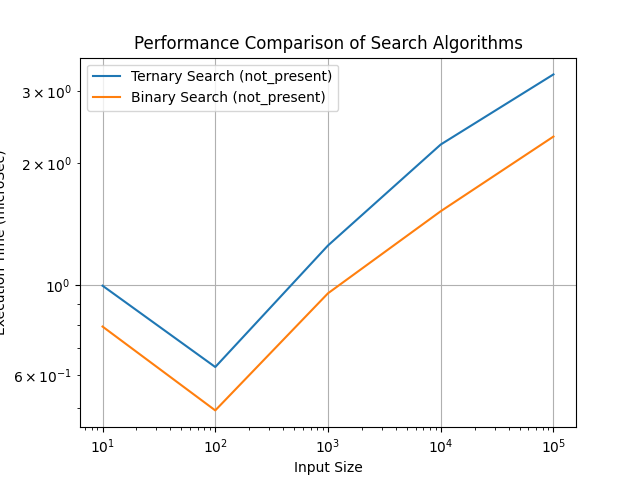
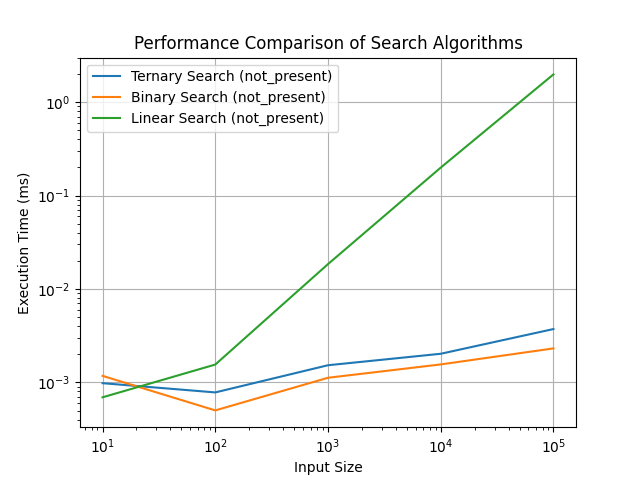
added comments / documentation in the code

diff --git a/unimodalTest.py b/unimodalTest.py
@@ -1,70 +1,83 @@
-import matplotlib.pyplot as plt
-import time
-import numpy as np
 import math
-import random
+import time
 
-# Define the unimodal function (a simple parabola)
 def unimodal_function(x):
-    """A complex unimodal function with noise to test the algorithms."""
-    # Function: sin(x) + (x-5000)^2 / 10000
-    # This creates a curve with a global minimum around x = 5000, with a lot of fluctuations
-    noise = random.uniform(-0.01, 0.01)  # Adding small random noise
-    return math.sin(x) + ((x - 5000)**2) / 10000 + noise
+    return -1 * (x - 3)**2 + 7  # Maximum at x = 3
 
-# Ternary Search to find the minimum of a unimodal function
-def ternary_search_minimize(f, left, right, epsilon=1e-5):
-    while right - left > epsilon:
+# Ternary Search implementation using the unimodal_function()
+def ternary_search(func, left, right, absolute_precision=1e-7):
+    while right - left > absolute_precision:
         mid1 = left + (right - left) / 3
         mid2 = right - (right - left) / 3
-        if f(mid1) < f(mid2):
-            right = mid2
-        else:
+
+        # Compare function values at mid1 and mid2
+        if func(mid1) < func(mid2):
             left = mid1
-    return (left + right) / 2
-
-# Binary Search to find the minimum of a unimodal function
-def binary_search_minimize(f, left, right, epsilon=1e-5):
-    while right - left > epsilon:
-        mid = (left + right) / 2
-        if f(mid - epsilon) < f(mid + epsilon):
-            right = mid
         else:
-            left = mid
+            right = mid2
+
     return (left + right) / 2
 
-# Compare performance for a range of sizes
-def compare_search_algorithms():
-    epsilon = 1e-7  # Precision level
-    sizes = np.arange(10, 10000000, 10)  # Search ranges from 10 to 1000
-    ternary_times = []
-    binary_times = []
+# Binary search implementation using unimodal_function()
+def binary_search_unimodal(func, left, right, absolute_precision=1e-7):
+    while right - left > absolute_precision:
+        mid = (left + right) / 2
 
-    for size in sizes:
-        left, right = 0, size  # Define the search range
+        # Compare function values at mid and mid + small step
+        if func(mid) < func(mid + absolute_precision):
+            left = mid 
+        else:
+            right = mid  
 
-        # Measure ternary search time
-        start_time = time.time()
-        ternary_search_minimize(unimodal_function, left, right, epsilon)
-        ternary_times.append((time.time() - start_time) * 1_000_000)  # Convert to microseconds
+    return (left + right) / 2
 
-        # Measure binary search time
-        start_time = time.time()
-        binary_search_minimize(unimodal_function, left, right, epsilon)
-        binary_times.append((time.time() - start_time) * 1_000_000)  # Convert to microseconds
+# Brute Force
+def brute_force_search(func, left, right, precision=1e-7):
+    step = precision
+    max_value = -math.inf
+    max_point = None
 
-    return sizes, ternary_times, binary_times
+    x = left
+    while x <= right:
+        f_value = func(x)
+        if f_value > max_value:
+            max_value = f_value
+            max_point = x
+        x += step
 
-# Run the comparison and generate a graph
-sizes, ternary_times, binary_times = compare_search_algorithms()
+    return max_point
 
-# Plot the results
-plt.figure(figsize=(10, 6))
-plt.plot(sizes, ternary_times, label='Ternary Search', color='b', marker='o')
-plt.plot(sizes, binary_times, label='Binary Search', color='r', marker='x')
-plt.xlabel('Search Range Size', fontsize=14)
-plt.ylabel('Time (Microseconds)', fontsize=14)
-plt.title('Comparison of Ternary Search and Binary Search for Function Minimization', fontsize=16)
-plt.legend()
-plt.grid(True)
-plt.savefig('./unimodal')
+# Comparison
+def compare_methods():
+    # range for search to be conducted
+    left, right = 0, 6
+
+    # Ternary Search
+    start_time = time.time()
+    ternary_result = ternary_search(unimodal_function, left, right)
+    ternary_time = time.time() - start_time
+
+    # Binary Search
+    start_time = time.time()
+    binary_result = binary_search_unimodal(unimodal_function, left, right)
+    binary_time = time.time() - start_time
+
+    # Brute Force
+    start_time = time.time()
+    brute_result = brute_force_search(unimodal_function, left, right)
+    brute_time = time.time() - start_time
+
+
+    print("Ternary Search:")
+    print(f"Maximum at x ≈ {ternary_result:.7f}, f(x) ≈ {unimodal_function(ternary_result):.7f}")
+    print(f"Execution Time: {ternary_time:.7e} seconds\n")
+
+    print("Binary Search:")
+    print(f"Maximum at x ≈ {binary_result:.7f}, f(x) ≈ {unimodal_function(binary_result):.7f}")
+    print(f"Execution Time: {binary_time:.7e} seconds\n")
+
+    print("Brute Force:")
+    print(f"Maximum at x ≈ {brute_result:.7f}, f(x) ≈ {unimodal_function(brute_result):.7f}")
+    print(f"Execution Time: {brute_time:.7e} seconds\n")
+
+compare_methods()

diff --git a/test.py b/test.py
@@ -1,5 +1,6 @@
 from binarySearch import binarySearch
 from ternarySearch import ternarySearch
+from linearSearch import linearSearch
 import matplotlib.pyplot as plt
 import timeit
 import random
@@ -11,21 +12,30 @@ def generate_sorted_list(size):
 
 def test_search_algorithm(search_func, array, target):
     """Measure the execution time of a search function."""
+
+    # track time to complete
     start_time = timeit.default_timer()
     result = search_func(array, target)
     end_time = timeit.default_timer()
-    elapsed_time = (end_time - start_time) * 1_000_000
+
+    # mutiply by 1,000 for milliseconds
+    elapsed_time = (end_time - start_time) * 1_000
+
     return elapsed_time, result
 
 def present_results(results, sizes):
     """Visualize the performance of search algorithms."""
+
+    # iterate throughe every algorithm
     for algo, scenario_data in results.items():
+        # iterate through all data under the present scenario
         for scenario, times in scenario_data.items():
             if scenario == "present":
                 plt.plot(sizes, times, label=f"{algo} ({scenario})")
 
+    # output graph of data
     plt.xlabel("Input Size")
-    plt.ylabel("Execution Time (microSec)")
+    plt.ylabel("Execution Time (ms)")
     plt.title("Performance Comparison of Search Algorithms")
     plt.legend()
     plt.grid(True)
@@ -36,13 +46,17 @@ def present_results(results, sizes):
 def not_present_results(results, sizes):
     """Visualize the performance of search algorithms."""
     plt.figure()
+
+    # iterate through each search algorithm
     for algo, scenario_data in results.items():
+        # iterate through all data under specific scenario "not_present"
         for scenario, times in scenario_data.items():
             if scenario == "not_present":
                 plt.plot(sizes, times, label=f"{algo} ({scenario})")
 
+    # output graph 
     plt.xlabel("Input Size")
-    plt.ylabel("Execution Time (microSec)")
+    plt.ylabel("Execution Time (ms)")
     plt.title("Performance Comparison of Search Algorithms")
     plt.legend()
     plt.grid(True)
@@ -56,9 +70,8 @@ def main():
     sizes = [10, 100, 1000, 10000, 100000]  # Different input sizes
     scenarios = ["present", "not_present"]  # Whether the target is present or not
 
-    # Results dictionary
     results = {algo: {scenario: [] for scenario in scenarios} 
-               for algo in ["Ternary Search", "Binary Search"]}
+               for algo in ["Ternary Search", "Binary Search", "Linear Search"]}
 
     for size in sizes:
         array = generate_sorted_list(size)
@@ -75,9 +88,9 @@ def main():
             time_taken, _ = test_search_algorithm(binarySearch, array, target)
             results["Binary Search"][scenario].append(time_taken)
             
-            # # Test linear search
-            # time_taken, _ = test_search_algorithm(linear_search, array, target)
-            # results["Linear Search"][scenario].append(time_taken)
+            # Test linear search
+            time_taken, _ = test_search_algorithm(linearSearch, array, target)
+            results["Linear Search"][scenario].append(time_taken)
 
     # Print results
     for algo, scenario_data in results.items():
@@ -85,10 +98,11 @@ def main():
         for scenario, times in scenario_data.items():
             print(f"  {scenario.capitalize()}:")
             for size, time in zip(sizes, times):
-                print(f"    Size {size}: {time:.6f} micro Seconds")
+                print(f"    Size {size}: {time:.6f} ms")
 
     print(results)
     
+    # output graphs
     present_results(results, sizes)
     not_present_results(results, sizes)
 

diff --git a/ternarySearch.py b/ternarySearch.py
@@ -1,64 +1,51 @@
-# Function to perform Ternary Search
 def ternarySearch(ar, key):
-
+    # set pointers for beginning and ending of the array
     l = 0
     r = len(ar) - 1
 
-
+    # iterative method
     while r >= l:
-        
+
         # Find mid1 and mid2
         mid1 = l + (r-l) // 3
         mid2 = r - (r-l) // 3
 
-        # Check if key is at any mid
+        # Check if target value is at any mid
         if key == ar[mid1]:
             return mid1
         if key == ar[mid2]:
             return mid2
 
-        # Since key is not present at mid, 
-        # Check in which region it is present
-        # Then repeat the search operation in that region
+        # if the target value is less than the element at mid1
         if key < ar[mid1]:
-            # key lies between l and mid1
             r = mid1 - 1
+
+        # the target value is greater than the element at mid2
         elif key > ar[mid2]:
-            # key lies between mid2 and r
             l = mid2 + 1
+
+        # else the target is in the segment between mid1 and mid2
         else:
-            # key lies between mid1 and mid2
             l = mid1 + 1
             r = mid2 - 1
 
-    # key not found
+    # target not found
     return -1
 
 
 if __name__ == "__main__":
-    # Get the list
-    # Sort the list if not sorted
     ar = [1, 2, 3, 4, 5, 6, 7, 8, 9, 10]
-
-
-    # Checking for 5
-    # Key to be searched in the list
     key = 5
 
-    # Search the key using ternary search
     p = ternarySearch(ar, key)
 
-    # Print the result
     print("Index of", key, "is", p)
+    
 
-    # Checking for 50
-    # Key to be searched in the list
+    # check for item not present in the array
     key = 50
 
-    # Search the key using ternary search
     p = ternarySearch(ar, key)
 
-    # Print the result
     print("Index of", key, "is", p)
 
-    # This code has been contributed by Sujal Motagi

diff --git a/binarySearch.py b/binarySearch.py
@@ -1,34 +1,34 @@
-# It returns location of x in given array arr
 def binarySearch(arr, x):
+    # set the pointers for the beginning and ending of the array
     low = 0
     high = len(arr) - 1
-    while low <= high:
 
+    # iterative method 
+    while low <= high:
+        
+        # calculate the midpoint
         mid = low + (high - low) // 2
 
-        # Check if x is present at mid
+        # Check if target is present at mid
         if arr[mid] == x:
             return mid
 
-        # If x is greater, ignore left half
+        # If target value is greater, ignore left half
         elif arr[mid] < x:
             low = mid + 1
 
-        # If x is smaller, ignore right half
+        # If target value is smaller, ignore right half
         else:
             high = mid - 1
 
-    # If we reach here, then the element
-    # was not present
+    # not present
     return -1
 
 
-# Driver Code
 if __name__ == '__main__':
     arr = [2, 3, 4, 10, 40]
     x = 3
 
-    # Function call
     result = binarySearch(arr, x)
     if result != -1:
         print("Element is present at index", result)

diff --git a/linearSearch.py b/linearSearch.py
@@ -1,0 +1,18 @@
+def linearSearch(arr, x):
+    # Set N to length of array
+    N = len(arr)
+
+    # iterate through each element - checking to see if there's a match
+    for i in range(0, N):
+        if (arr[i] == x):
+            return i
+        
+    # return -1 if not present
+    return -1
+    
+
+if __name__ == "__main__":
+    arr = [1, 2, 3, 4, 5, 6, 9]
+    target = 3
+
+    print(linearSearch(arr, target))
